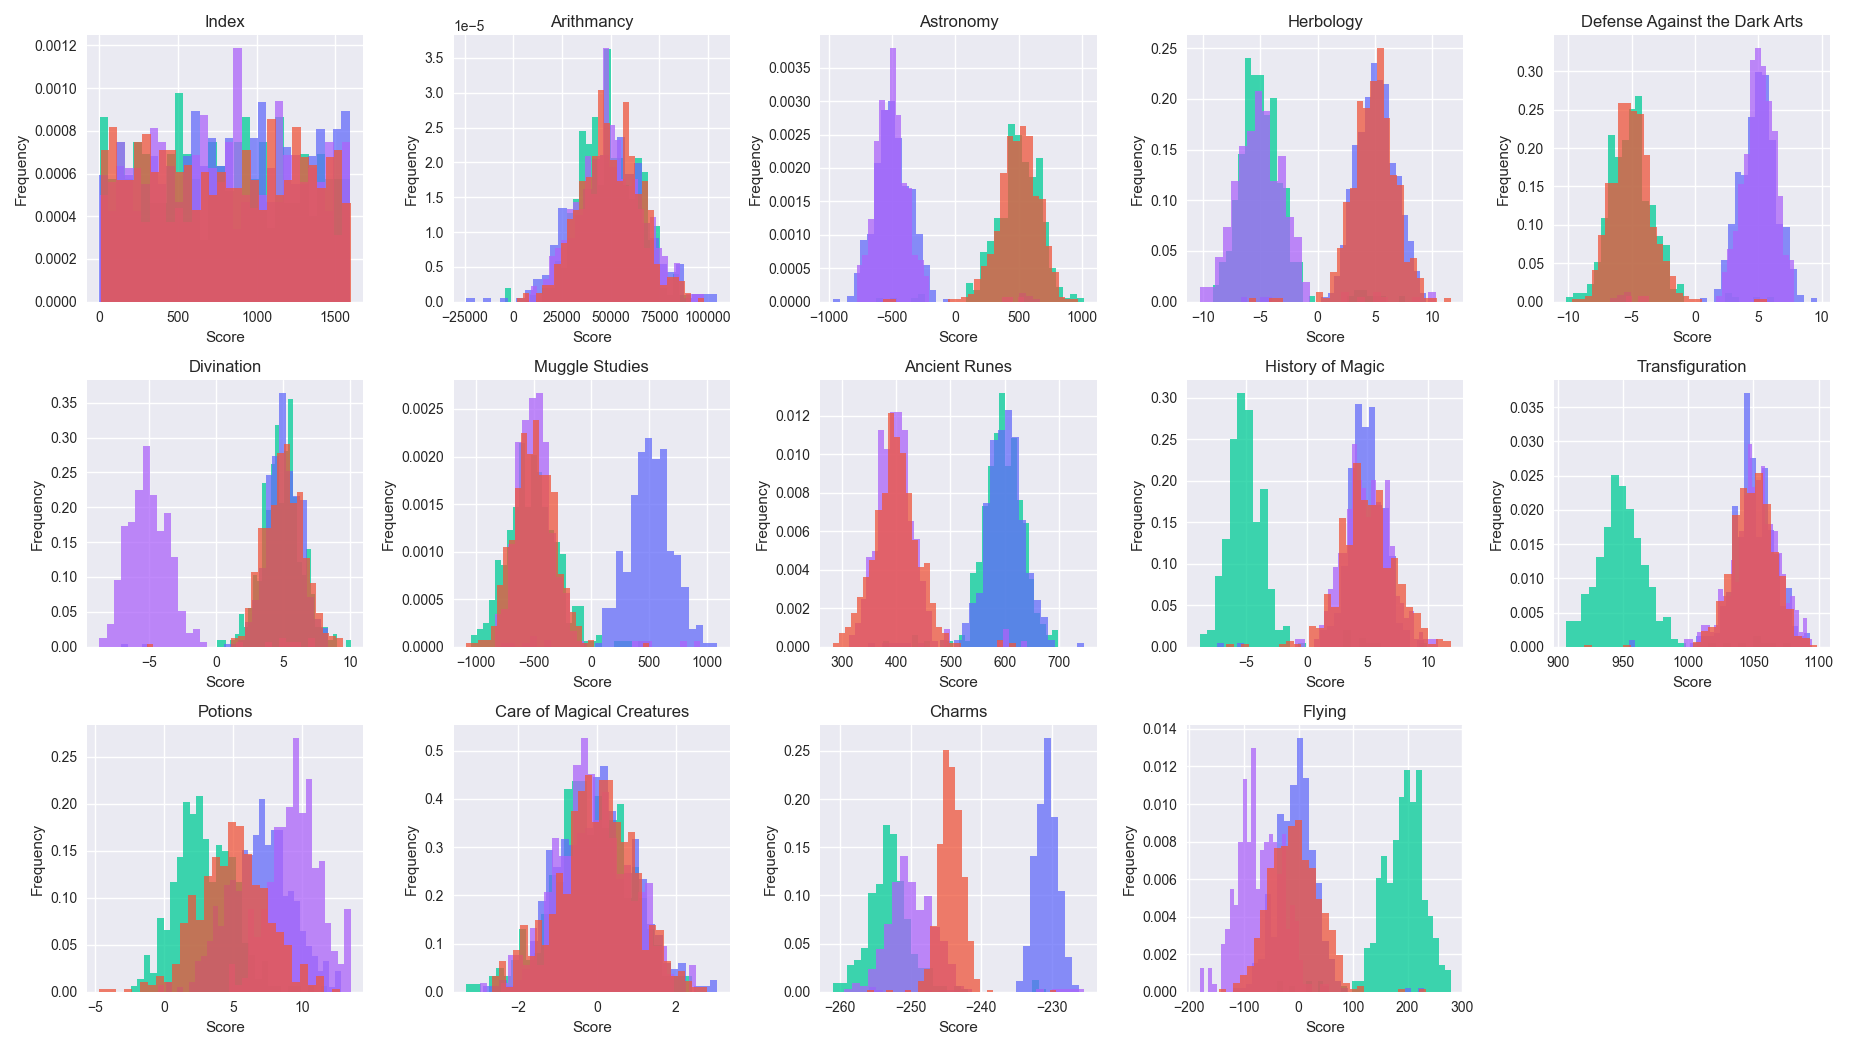
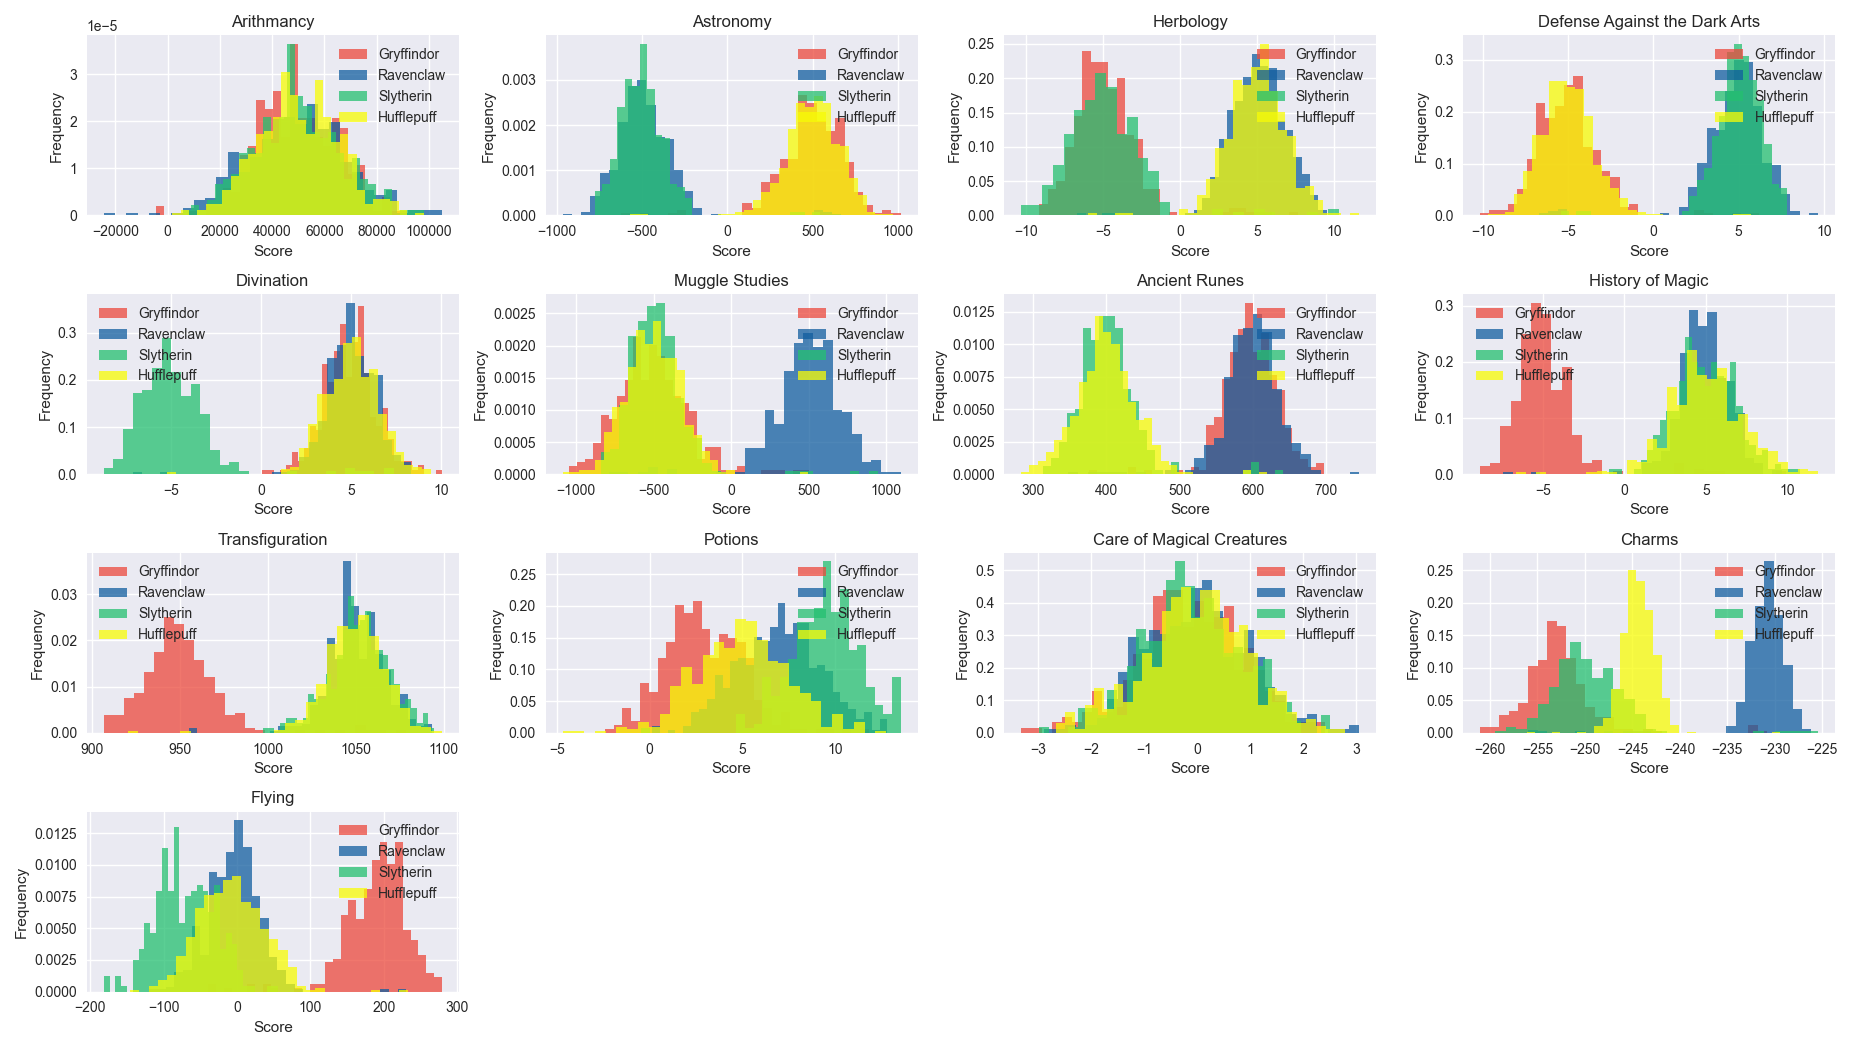
color

diff --git a/histogram.py b/histogram.py
@@ -7,10 +7,11 @@ def draw():
     ax.set_title(title[i])
     ax.set_ylabel('Frequency')
     ax.set_xlabel('Score')
-    ax.hist(g[title[i]], bins=30, density=True, alpha=0.75, histtype='stepfilled', color='#00cc96')
-    ax.hist(r[title[i]], bins=30, density=True, alpha=0.75, histtype='stepfilled', color='#636bfa')
-    ax.hist(s[title[i]], bins=30, density=True, alpha=0.75, histtype='stepfilled', color='#ac63fa')
-    ax.hist(h[title[i]], bins=30, density=True, alpha=0.75, histtype='stepfilled', color='#ef553b')
+    ax.hist(g[title[i]], bins=30, density=True, alpha=0.75, histtype='stepfilled', color='#EC493C', label="Gryffindor")
+    ax.hist(r[title[i]], bins=30, density=True, alpha=0.75, histtype='stepfilled', color='#125E9F', label="Ravenclaw")
+    ax.hist(s[title[i]], bins=30, density=True, alpha=0.75, histtype='stepfilled', color='#24C070', label="Slytherin")
+    ax.hist(h[title[i]], bins=30, density=True, alpha=0.75, histtype='stepfilled', color='#F8FC05', label="Hufflepuff")
+    ax.legend()
 
 def get_size_to_draw():
     ncol = size
@@ -30,14 +31,14 @@ if __name__ == "__main__":
         exit(-1)
     FILENAME = str(sys.argv[1])
     data = pd.read_csv(FILENAME, index_col=False)
-    data.drop(['First Name', 'Last Name', 'Birthday', 'Best Hand'], axis='columns', inplace=True)
+    data.drop(['Index', 'First Name', 'Last Name', 'Birthday', 'Best Hand'], axis='columns', inplace=True)
     g = data.loc[data['Hogwarts House'] == "Gryffindor"]
     r = data.loc[data['Hogwarts House'] == "Ravenclaw"]
     s = data.loc[data['Hogwarts House'] == "Slytherin"]
     h = data.loc[data['Hogwarts House'] == "Hufflepuff"]
     data.drop(['Hogwarts House'], axis='columns', inplace=True)
     title = list(data.columns)
-    size = 5
+    size = 4
     nb = get_size_to_draw()
     fig = plt.figure(figsize=(nb[0] * 2, nb[1] * 2))
     plt.style.use('seaborn')
